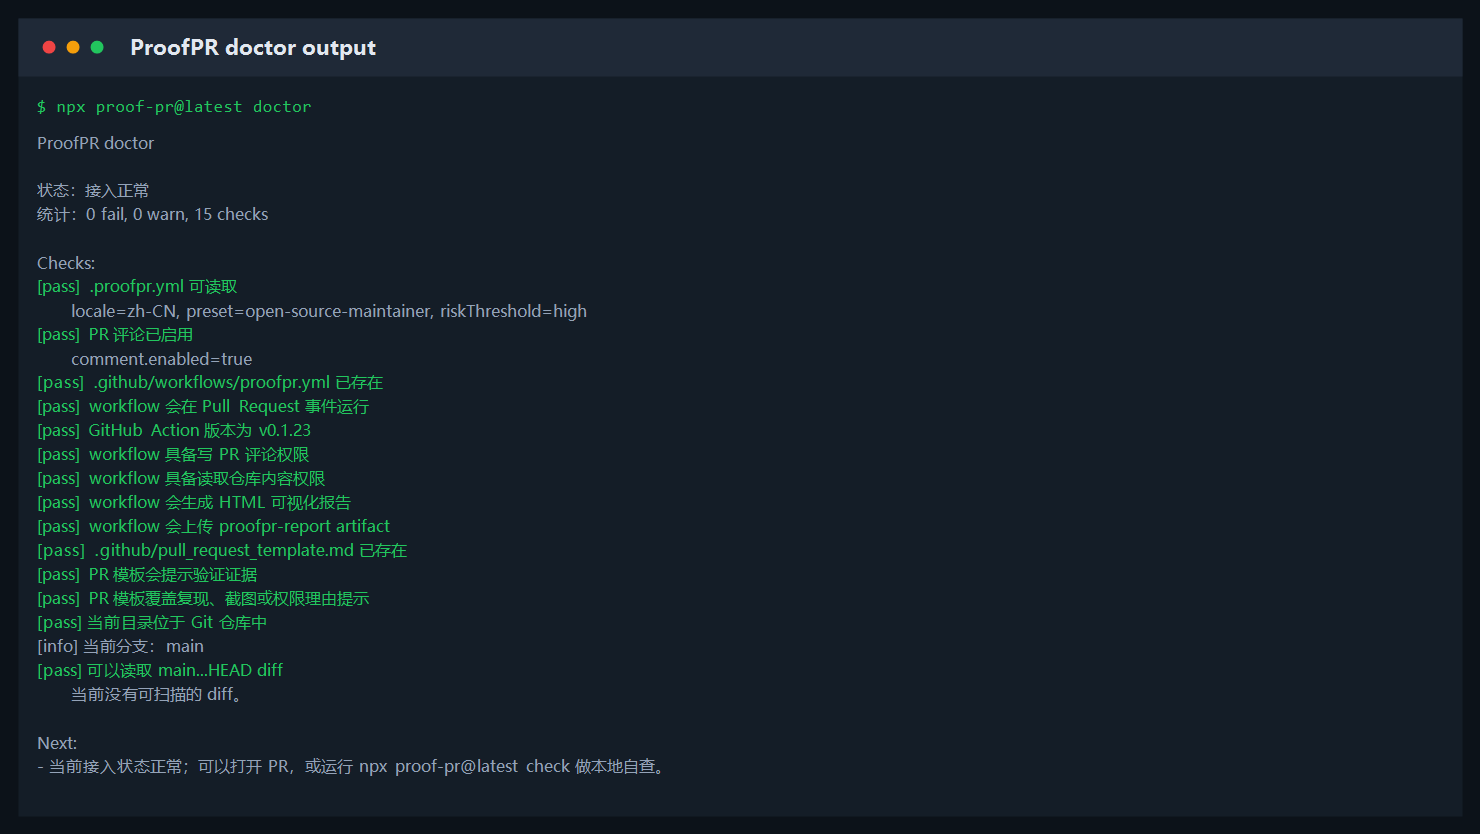
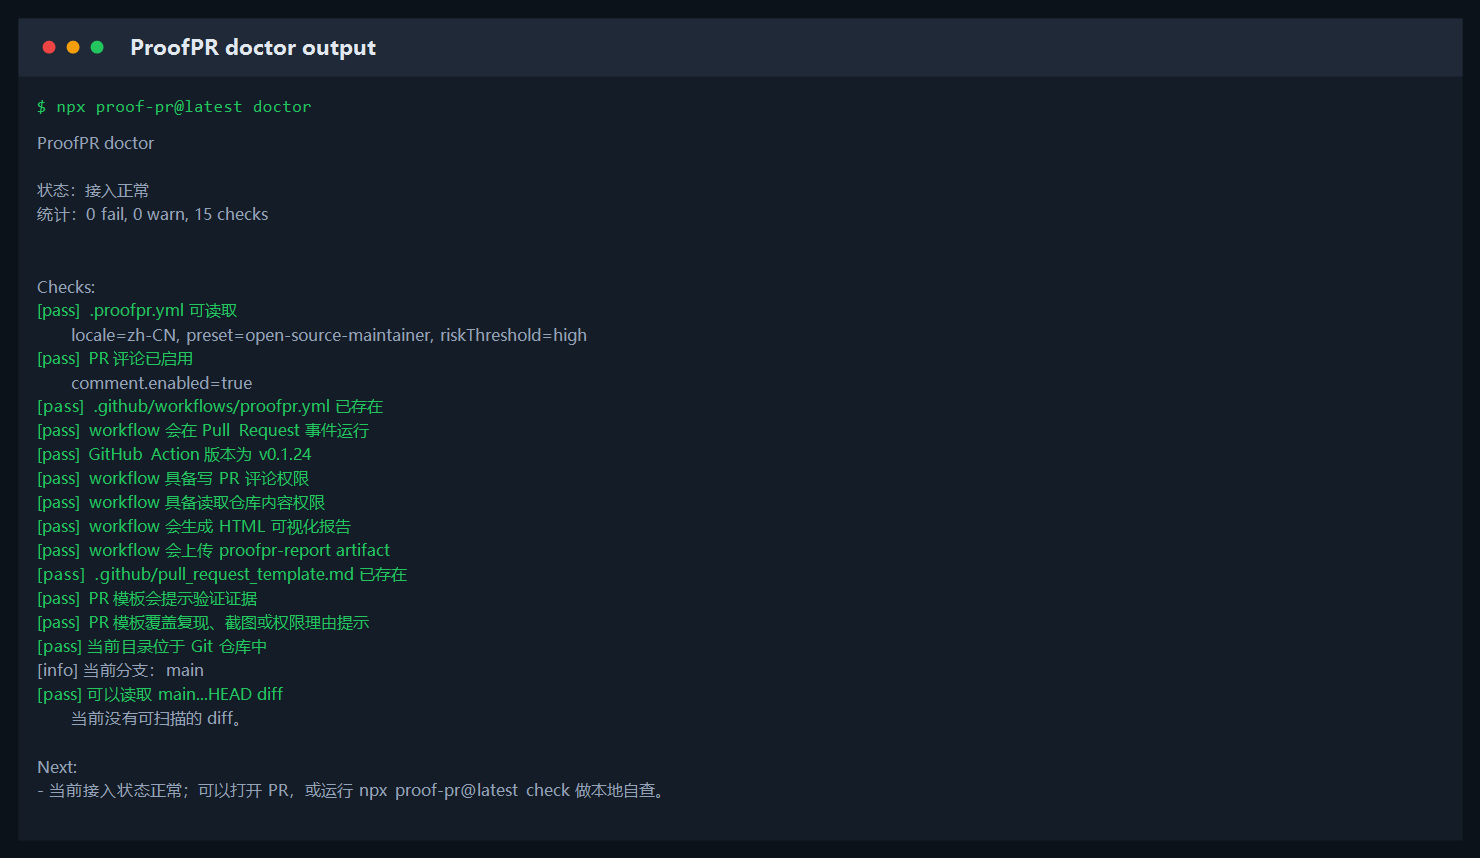
feat: add doctor auto-fix

diff --git a/packages/cli/src/index.ts b/packages/cli/src/index.ts
@@ -22,7 +22,7 @@ import {
 } from "@proof-pr/core";
 
 const execFileAsync = promisify(execFile);
-const CLI_VERSION = "0.1.23";
+const CLI_VERSION = "0.1.24";
 
 type OutputFormat = "json" | "markdown" | "sarif" | "html";
 type FailLevel = RiskLevel | "never";
@@ -70,6 +70,7 @@ interface DoctorCommandOptions {
   prTemplatePath: string;
   base?: string;
   head: string;
+  fix: boolean;
 }
 
 interface TemplateCommandOptions {
@@ -86,6 +87,7 @@ interface DoctorCheck {
 interface DoctorReport {
   checks: DoctorCheck[];
   nextSteps: string[];
+  fixes: string[];
 }
 
 interface InitFileResult {
@@ -323,6 +325,7 @@ program
   .option("--pr-template-path <path>", "Path to the pull request template.", ".github/pull_request_template.md")
   .option("--base <ref>", "Base git ref used for local diff checks. Defaults to the same auto-detected base as check.")
   .option("--head <ref>", "Head git ref used for local diff checks.", "HEAD")
+  .option("--fix", "Create or refresh ProofPR setup files when the fix is safe.", false)
   .action(async (options: DoctorCommandOptions) => {
     const report = await runDoctor(options);
     process.stdout.write(renderDoctorReport(report));
@@ -569,6 +572,9 @@ function renderGuide(): string {
 不确定装好没有：
    npx proof-pr@latest doctor
 
+想自动修复常见接入问题：
+   npx proof-pr@latest doctor --fix
+
 需要可分享页面：
    npx proof-pr@latest check --format html --output proofpr-report.html
 
@@ -626,6 +632,7 @@ ${renderMarkdownReport(result, locale)}`;
 }
 
 async function runDoctor(options: DoctorCommandOptions): Promise<DoctorReport> {
+  const fixes = options.fix ? await applyDoctorFixes(options) : [];
   const checks: DoctorCheck[] = [];
   const nextSteps = new Set<string>();
 
@@ -673,7 +680,51 @@ async function runDoctor(options: DoctorCommandOptions): Promise<DoctorReport> {
     nextSteps.add("当前接入状态正常；可以打开 PR，或运行 npx proof-pr@latest check 做本地自查。");
   }
 
-  return { checks, nextSteps: [...nextSteps] };
+  return { checks, nextSteps: [...nextSteps], fixes };
+}
+
+async function applyDoctorFixes(options: DoctorCommandOptions): Promise<string[]> {
+  const fixes: string[] = [];
+
+  if (!(await pathExists(options.config))) {
+    await writeOutput(options.config, renderConfigTemplate("open-source-maintainer"));
+    fixes.push(`已创建 ${options.config}`);
+  }
+
+  if (await shouldRefreshDoctorWorkflow(options.workflowPath)) {
+    await writeOutput(options.workflowPath, renderWorkflowTemplate("high", true, "proofpr-report.html"));
+    fixes.push(`已刷新 ${options.workflowPath}`);
+  }
+
+  if (!(await pathExists(options.prTemplatePath))) {
+    await writeOutput(options.prTemplatePath, renderPullRequestTemplate());
+    fixes.push(`已创建 ${options.prTemplatePath}`);
+  } else {
+    const template = await readFile(options.prTemplatePath, "utf8");
+    if (!hasProofPrTemplateEvidence(template)) {
+      const nextTemplate = `${template.trimEnd()}\n\n${renderPullRequestTemplateAddon()}`;
+      await writeOutput(options.prTemplatePath, nextTemplate);
+      fixes.push(`已向 ${options.prTemplatePath} 追加 ProofPR 证据提示`);
+    }
+  }
+
+  return fixes;
+}
+
+async function shouldRefreshDoctorWorkflow(path: string): Promise<boolean> {
+  if (!(await pathExists(path))) {
+    return true;
+  }
+
+  const workflow = await readFile(path, "utf8");
+  return (
+    !/pull_request\s*:/.test(workflow) ||
+    !new RegExp(`linsk27/proof-pr@v${escapeRegExp(CLI_VERSION)}`).test(workflow) ||
+    !/pull-requests\s*:\s*write/.test(workflow) ||
+    !/contents\s*:\s*read/.test(workflow) ||
+    !/html-output\s*:/.test(workflow) ||
+    !/actions\/upload-artifact@v\d+/.test(workflow)
+  );
 }
 
 function inspectWorkflow(workflow: string, checks: DoctorCheck[], nextSteps: Set<string>): void {
@@ -821,6 +872,10 @@ function renderDoctorReport(report: DoctorReport): string {
   const failCount = report.checks.filter((check) => check.level === "fail").length;
   const warnCount = report.checks.filter((check) => check.level === "warn").length;
   const status = failCount > 0 ? "需要先修复" : warnCount > 0 ? "基本可用，但建议优化" : "接入正常";
+  const fixes =
+    report.fixes.length > 0
+      ? `\nAuto-fix:\n${report.fixes.map((fix) => `- ${fix}`).join("\n")}\n`
+      : "";
   const checks = report.checks
     .map((check) => {
       const detail = check.detail ? `\n       ${check.detail}` : "";
@@ -833,6 +888,7 @@ function renderDoctorReport(report: DoctorReport): string {
 
 状态：${status}
 统计：${failCount} fail, ${warnCount} warn, ${report.checks.length} checks
+${fixes}
 
 Checks:
 ${checks}
@@ -974,6 +1030,10 @@ function isExecError(error: unknown): error is Error & { code: number; stdout?: 
   );
 }
 
+function escapeRegExp(value: string): string {
+  return value.replace(/[.*+?^${}()|[\]\\]/g, "\\$&");
+}
+
 async function readPullRequestBody(options: ScanCommandOptions): Promise<string | undefined> {
   if (options.prBodyFile) {
     return readFile(options.prBodyFile, "utf8");
@@ -1089,6 +1149,25 @@ function renderPullRequestTemplate(): string {
 - [ ] 无破坏性变更
 - [ ] 需要迁移说明 / changelog
 - [ ] 需要灰度或回滚方案
+`;
+}
+
+function hasProofPrTemplateEvidence(template: string): boolean {
+  return (
+    /验证|verification|test/i.test(template) &&
+    /复现|reproduction|before|after|截图|screenshot|权限|permission/i.test(template)
+  );
+}
+
+function renderPullRequestTemplateAddon(): string {
+  return `## ProofPR 证据补充
+
+如果本次 PR 涉及代码、UI、依赖、GitHub Actions、MCP、环境变量或权限变更，请补充：
+
+- 验证方式：测试命令、手动验证步骤或不需要测试的原因。
+- 复现上下文：bug fix 请说明修改前如何复现、预期结果和实际结果。
+- 截图 / 录屏：UI 改动请提供 before/after。
+- 依赖 / 权限理由：说明新增依赖、lockfile、workflow、MCP 或权限变更的必要性和安全影响。
 `;
 }
 

diff --git a/docs/release.md b/docs/release.md
@@ -1,6 +1,6 @@
 # 发布流程
 
-当前最新公开版本是 `0.1.23`。
+当前最新公开版本是 `0.1.24`。
 
 ## 发布前检查
 
@@ -52,8 +52,8 @@ npm 官方要求 trusted publishing 使用 npm 11.5.1+ 和 Node 22.14+；`npm tr
 确认 `pnpm release:check` 通过后：
 
 ```bash
-git tag v0.1.23
-git push origin v0.1.23
+git tag v0.1.24
+git push origin v0.1.24
 ```
 
 发布完成后需要检查：
@@ -66,9 +66,18 @@ npx proof-pr@latest --version
 当前验证结果：
 
 ```txt
-npm view proof-pr version -> 0.1.23
-npx proof-pr@latest --version -> 0.1.23
+npm view proof-pr version -> 0.1.24
+npx proof-pr@latest --version -> 0.1.24
 ```
+
+## `v0.1.24` 发布状态
+
+`v0.1.24` 是自检体验增强版，重点包括：
+
+- `proof-pr doctor --fix`：自动创建缺失的 `.proofpr.yml`、`.github/workflows/proofpr.yml` 和 PR 模板。
+- 当 ProofPR workflow 版本过旧、缺少 PR 触发、权限或 HTML artifact 时，`doctor --fix` 会刷新为当前推荐模板。
+- 当已有 PR 模板缺少验证、复现、截图或权限理由提示时，`doctor --fix` 只追加 ProofPR 证据补充块，不修改业务代码。
+- README、npm 包 README、快速开始和命令速查同步说明自动修复路径。
 
 ## `v0.1.23` 发布状态
 
@@ -160,7 +169,7 @@ npx proof-pr@latest --version -> 0.1.23
 
 ## 版本说明
 
-`0.1.8` 已经发布到 npm，但 CLI `--version` 仍显示旧版本。`0.1.23` 继承了后续修复，并且是当前推荐使用版本。
+`0.1.8` 已经发布到 npm，但 CLI `--version` 仍显示旧版本。`0.1.24` 继承了后续修复，并且是当前推荐使用版本。
 
 ## 发布后动作
 

diff --git a/docs/commands.md b/docs/commands.md
@@ -29,6 +29,7 @@ npx proof-pr@latest guide
 | 场景 | 命令 | 结果在哪里看 |
 | --- | --- | --- |
 | 不确定是否装好 | `npx proof-pr@latest doctor` | 当前终端 |
+| 自动修复常见接入问题 | `npx proof-pr@latest doctor --fix` | 当前终端和接入文件 |
 | 已接入仓库但缺少 PR 模板 | `npx proof-pr@latest template` | `.github/pull_request_template.md` |
 | 想把报告保存成页面 | `npx proof-pr@latest check --format html --output proofpr-report.html` | `proofpr-report.html` |
 | 想接入 GitHub Code Scanning | `npx proof-pr@latest check --format sarif --output proofpr.sarif` | `proofpr.sarif` / Code Scanning |
@@ -114,7 +115,7 @@ npx proof-pr@latest doctor
 - `.github/workflows/proofpr.yml` 是否存在。
 - `.github/pull_request_template.md` 是否存在，以及是否提示验证、复现、截图或权限理由。
 - workflow 是否监听 `pull_request`。
-- workflow 是否使用当前推荐的 `linsk27/proof-pr@v0.1.23`。
+- workflow 是否使用当前推荐的 `linsk27/proof-pr@v0.1.24`。
 - 是否具备 `pull-requests: write` 和 `contents: read` 权限。
 - 是否启用了 `html-output` 和 `actions/upload-artifact`，方便下载 HTML 可视化报告。
 - 当前目录是否在 Git 仓库里，以及自动识别出的 base...HEAD diff 是否可读。

diff --git a/docs/roadmap.md b/docs/roadmap.md
@@ -31,7 +31,7 @@ ProofPR 的长期定位不是“又一个代码扫描器”，而是 **AI 时代
    代码侧材料已准备好，下一步需要仓库所有者在 GitHub 网页上确认发布。
 
 2. 发布链路稳定性
-   Trusted Publisher 已配置并通过 `v0.1.21`、`v0.1.22`、`v0.1.23` 验证。后续重点是保持 release workflow 简单可审计，避免回退到本地 token 发布。
+   Trusted Publisher 已配置并通过 `v0.1.21` 到 `v0.1.24` 验证。后续重点是保持 release workflow 简单可审计，避免回退到本地 token 发布。
 
 3. 真实截图刷新
    用供应链增强规则重新跑一个 demo PR，补充新版依赖风险、HTML 报告和 benchmark 效果图。
@@ -62,4 +62,4 @@ ProofPR 的长期定位不是“又一个代码扫描器”，而是 **AI 时代
 
 ## 下一版优先级
 
-下一步优先用 `0.1.23` 的聚焦定位和简化接入流程更新真实 demo PR 截图和 Marketplace 页面，并继续准备 GitHub Marketplace 上架材料。
+下一步优先用 `0.1.24` 的自动自检修复和简化接入流程更新真实 demo PR 截图和 Marketplace 页面，并继续准备 GitHub Marketplace 上架材料。

diff --git a/docs/getting-started.md b/docs/getting-started.md
@@ -74,7 +74,7 @@ jobs:
     runs-on: ubuntu-latest
     steps:
       - uses: actions/checkout@v4
-      - uses: linsk27/proof-pr@v0.1.23
+      - uses: linsk27/proof-pr@v0.1.24
         with:
           fail-on: high
           comment: "true"
@@ -144,7 +144,7 @@ npx proof-pr@latest check
 
 `check` 会自动选择常见主分支作为 base，并纳入已提交分支 diff、staged、unstaged 和未跟踪新文件。
 
-如果第一行输出 `0.1.23`，说明你正在使用当前最新发布版。
+如果第一行输出 `0.1.24`，说明你正在使用当前最新发布版。
 
 也可以全局安装：
 
@@ -170,6 +170,14 @@ node packages/cli/dist/index.js check
 ```bash
 proof-pr doctor
 ```
+
+想自动修复常见接入问题：
+
+```bash
+proof-pr doctor --fix
+```
+
+它只会创建或刷新 ProofPR 自己的接入文件：`.proofpr.yml`、`.github/workflows/proofpr.yml` 和 PR 模板，不会修改业务代码。
 
 已接入仓库但缺少 PR 模板：
 

diff --git a/docs/README.md b/docs/README.md
@@ -17,8 +17,8 @@
 
 ## 当前发布
 
-- GitHub Release：[`v0.1.23`](https://github.com/linsk27/proof-pr/releases/tag/v0.1.23)
-- npm：[`proof-pr@0.1.23`](https://www.npmjs.com/package/proof-pr)
+- GitHub Release：[`v0.1.24`](https://github.com/linsk27/proof-pr/releases/tag/v0.1.24)
+- npm：[`proof-pr@0.1.24`](https://www.npmjs.com/package/proof-pr)
 - 核心能力：判断 PR 是否值得 review、指出缺失证据、标出高风险改动区域，并生成维护者行动清单。
 - 辅助能力：HTML 报告、GitHub annotations、SARIF、benchmark、真实案例库和 npm Trusted Publishing 发布流程。
 
@@ -29,7 +29,7 @@ npm view proof-pr version
 npx proof-pr@latest --version
 ```
 
-当前都应输出 `0.1.23`。
+当前都应输出 `0.1.24`。
 
 不知道怎么开始时：
 

diff --git a/CHANGELOG.md b/CHANGELOG.md
@@ -4,6 +4,13 @@
 
 暂无。
 
+## 0.1.24 - 2026-05-15
+
+- 新增 `proof-pr doctor --fix`，可自动创建缺失的 `.proofpr.yml`、`.github/workflows/proofpr.yml` 和 PR 模板。
+- `doctor --fix` 会把过旧或缺少关键配置的 ProofPR workflow 刷新为当前推荐模板，包括 PR 触发、权限、Action 版本和 HTML artifact。
+- 已有 PR 模板缺少验证、复现、截图或权限理由提示时，`doctor --fix` 只追加 ProofPR 证据补充块，不修改业务代码。
+- README、npm 包 README、快速开始和命令速查同步说明自动修复路径。
+
 ## 0.1.23 - 2026-05-15
 
 - 收敛项目定位：README、CLI 向导和中文文档统一强调 ProofPR 是“PR 证据门禁”，不是通用扫描器、AI code reviewer 或漏洞库。

diff --git a/docs/zero-to-one.md b/docs/zero-to-one.md
@@ -149,7 +149,7 @@ npx proof-pr@latest check
 
 `check` 会自动选择常见主分支作为 base，并纳入已提交分支 diff、staged、unstaged 和未跟踪新文件。
 
-第一行当前应输出 `0.1.23`，用于确认 npm latest 已经安装正确。
+第一行当前应输出 `0.1.24`，用于确认 npm latest 已经安装正确。
 
 扫描内置案例：
 
@@ -201,7 +201,7 @@ permissions:
 
 steps:
   - uses: actions/checkout@v4
-  - uses: linsk27/proof-pr@v0.1.23
+  - uses: linsk27/proof-pr@v0.1.24
     with:
       fail-on: high
       comment: "true"

diff --git a/docs/sarif-code-scanning.md b/docs/sarif-code-scanning.md
@@ -59,7 +59,7 @@ jobs:
     runs-on: ubuntu-latest
     steps:
       - uses: actions/checkout@v4
-      - uses: linsk27/proof-pr@v0.1.23
+      - uses: linsk27/proof-pr@v0.1.24
         with:
           fail-on: high
           comment: "true"
